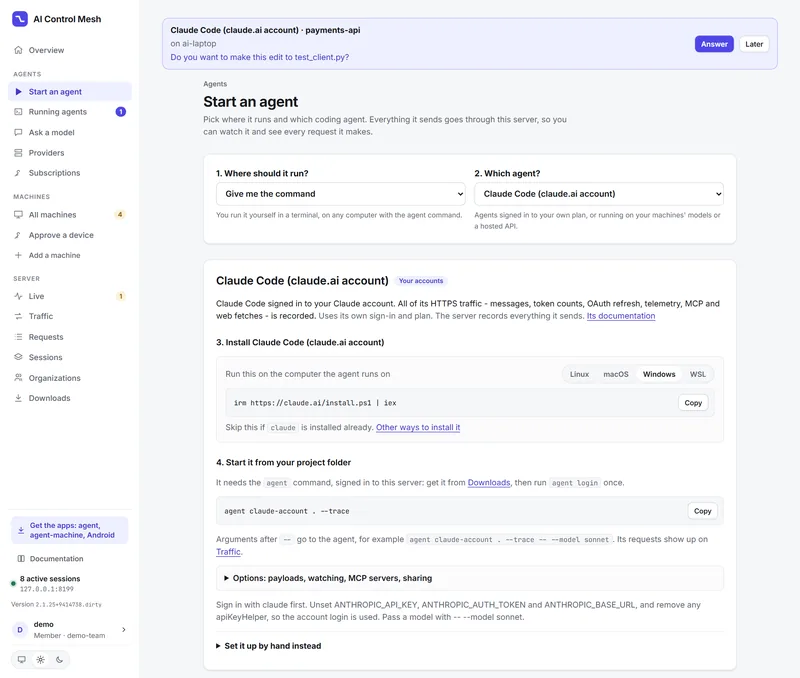
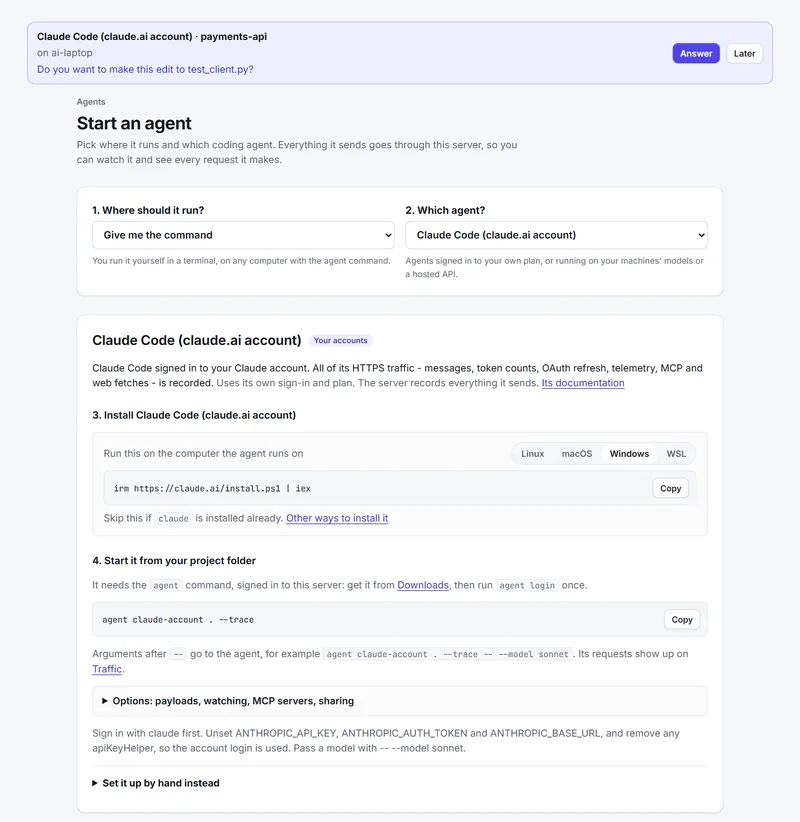
Site: several agents on different machines in the hero, a running session, notifications, captures without the sidebar

diff --git a/site/index.html b/site/index.html
@@ -11,7 +11,7 @@
   <meta property="og:site_name" content="AIControlMesh">
   <meta property="og:url" content="https://aicontrolmesh.com/">
   <meta property="og:title" content="Your AI agents. Your infrastructure. One control plane.">
-  <meta property="og:description" content="Route models, share MCP tools, manage your fleet, and follow agent sessions. Open source and self-hosted.">
+  <meta property="og:description" content="Run several coding agents at once on different machines, watch them live and answer them from anywhere. Open source and self-hosted.">
   <meta property="og:image" content="https://aicontrolmesh.com/assets/social.png">
   <meta property="og:image:width" content="1200">
   <meta property="og:image:height" content="630">
@@ -25,7 +25,7 @@
   <link rel="icon" href="/assets/icon-192.png" type="image/png" sizes="192x192">
   <link rel="apple-touch-icon" href="/assets/apple-touch-icon.png" sizes="180x180">
   <link rel="manifest" href="/site.webmanifest">
-  <link rel="stylesheet" href="/styles.css?v=mesh-2026-11-04">
+  <link rel="stylesheet" href="/styles.css?v=mesh-2026-11-04b">
   <script src="/site.js?v=mesh-2026-11-01" defer></script>
   <script type="application/ld+json">
   {
@@ -61,20 +61,21 @@
       <div class="hero-copy">
         <p class="eyebrow"><span class="status-dot" aria-hidden="true"></span> Open source · MIT licensed · Self-hosted</p>
         <h1 id="hero-title">Your AI agents.<br>Your infrastructure.<br><span>One control plane.</span></h1>
-        <p class="hero-lede">Run and observe coding agents across your machines, connect them to local models or supported cloud services, and share MCP tools with access controls for your team.</p>
+        <p class="hero-lede">Run several coding agents at once, on different machines. Watch each one live, connect it to local models or your own accounts, and answer it from any device when it needs you.</p>
+        <ul class="agent-chips" aria-label="Agents it runs"><li>Claude Code</li><li>Codex</li><li>Copilot CLI</li><li>OpenCode</li><li>Qwen Code</li><li>Aider</li><li>Goose</li></ul>
         <p class="hero-audience">For individual developers and engineering teams running agents on infrastructure they control.</p>
         <div class="actions">
           <a class="button button-primary" href="#quickstart">Try locally <span aria-hidden="true">→</span></a>
           <a class="button button-outline" href="/teams.html">Explore team deployment <span aria-hidden="true">→</span></a>
         </div>
-        <p class="hero-note">Launch a task · choose its provider · inspect the session</p>
+        <p class="hero-note">Start agents anywhere · watch them live · hear when they need you</p>
       </div>
       <figure class="hero-product">
-        <div class="window-bar"><span aria-hidden="true"><i></i><i></i><i></i></span><span>Overview / Live routing</span><span class="demo-label">DEMO DATA</span></div>
-        <a class="hero-capture" href="/screenshots/overview-dark.png" aria-label="Open the full overview screenshot with demo data">
-          <img src="/assets/screens/overview-dark-1440.webp" srcset="/assets/screens/overview-dark-800.webp 800w, /assets/screens/overview-dark-1440.webp 1440w" sizes="(max-width: 850px) calc(100vw - 40px), 46vw" width="1440" height="989" fetchpriority="high" decoding="async" alt="The console's overview: agents streaming through the server to the machines and accounts that answer them.">
+        <div class="window-bar"><span aria-hidden="true"><i></i><i></i><i></i></span><span>Running agents / 5 agents · 3 machines</span><span class="demo-label">DEMO DATA</span></div>
+        <a class="hero-capture" href="/screenshots/terminals-dark.png" aria-label="Open the full Running agents screenshot with demo data">
+          <img src="/assets/screens/terminals-dark-1440.webp" srcset="/assets/screens/terminals-dark-800.webp 800w, /assets/screens/terminals-dark-1440.webp 1440w" sizes="(max-width: 850px) calc(100vw - 40px), 46vw" width="1440" height="1025" fetchpriority="high" decoding="async" alt="Running agents: GitHub Copilot CLI and Codex working on build-box, OpenCode on ai-desktop, Qwen Code waiting and Claude Code asking a question on ai-laptop, with a banner to answer it.">
         </a>
-        <figcaption><span>Every agent, the server, and the machine that answers, live.<br>Actual console; synthetic demo data.</span><a href="/screenshots/overview-dark.png">Open full image ↗</a></figcaption>
+        <figcaption><span>Five different agents on three machines. One needs you.<br>Actual console; synthetic demo data.</span><a href="/screenshots/terminals-dark.png">Open full image ↗</a></figcaption>
       </figure>
     </section>
     <div class="compatibility wrap" aria-label="Explore the product">
@@ -110,15 +111,16 @@ docker compose -f quickstart/compose.yaml up -d</code></pre>
     <section class="product-section section" id="product" aria-labelledby="product-title">
       <div class="wrap">
         <div class="section-heading split-heading">
-          <div><p class="eyebrow">02 / Inside the console</p><h2 id="product-title">See the work.<br>Reach the machine.</h2></div>
+          <div><p class="eyebrow">02 / Inside the console</p><h2 id="product-title">See every agent.<br>Answer from anywhere.</h2></div>
           <p>Actual captures from the repository’s isolated demo. Names, prompts, tools and metrics are sample data. Open any image for the full-size capture.</p>
         </div>
         <div class="shots">
-          <figure class="shot"><a class="shot-frame" href="/screenshots/agents.png" aria-label="Open the full screenshot: Start an agent in two choices"><img src="/assets/screens/agents-1440.webp" srcset="/assets/screens/agents-800.webp 800w, /assets/screens/agents-1440.webp 1440w" sizes="(max-width: 850px) calc(100vw - 40px), 58vw" width="1440" height="1220" loading="lazy" decoding="async" alt="Start an agent: where it runs, which agent, and the command to install and start it."></a><figcaption><span class="figure-number">01</span><h3>Start an agent in two choices</h3><p>Pick where it runs, one of your machines or a command for any computer, then which agent. The page shows only what that needs.</p><ul><li>On a machine: start it there from the console.</li><li>Not installed yet: the install command for that system.</li><li>By hand: one command to run in your project folder.</li></ul><a class="open-full" href="/screenshots/agents.png">Open the full capture ↗</a></figcaption></figure>
-          <figure class="shot"><a class="shot-frame" href="/screenshots/terminal.png" aria-label="Open the full screenshot: Watch it work. Answer from anywhere"><img src="/assets/screens/terminal-1440.webp" srcset="/assets/screens/terminal-800.webp 800w, /assets/screens/terminal-1440.webp 1440w" sizes="(max-width: 850px) calc(100vw - 40px), 58vw" width="1440" height="900" loading="lazy" decoding="async" alt="An agent's terminal in the console, with keys for a phone and a prompt banner to answer."></a><figcaption><span class="figure-number">02</span><h3>Watch it work. Answer from anywhere</h3><p>Agents started with a shared terminal show up live in the console. Type into them, or answer their questions from the banner, from a computer or your phone.</p><ul><li>Scrollback is kept, so finished sessions stay readable.</li><li>Private until you share it with your team or organization.</li></ul><a class="open-full" href="/screenshots/terminal.png">Open the full capture ↗</a></figcaption></figure>
-          <figure class="shot"><a class="shot-frame" href="/screenshots/session-chat.png" aria-label="Open the full screenshot: Every request. Every token"><img src="/assets/screens/session-chat-1440.webp" srcset="/assets/screens/session-chat-800.webp 800w, /assets/screens/session-chat-1440.webp 1440w" sizes="(max-width: 850px) calc(100vw - 40px), 58vw" width="1440" height="1000" loading="lazy" decoding="async" alt="A recorded session: requests, token totals, the main conversation and sub-agent calls."></a><figcaption><span class="figure-number">03</span><h3>Every request. Every token</h3><p>Each session records its requests, tokens, prompt-cache use and timings. With capture on, read the whole conversation, sub-agents and tool calls included.</p><ul><li>Credentials are redacted before anything is shown or saved.</li><li>Organization policy decides whether bodies are kept.</li></ul><a class="open-full" href="/screenshots/session-chat.png">Open the full capture ↗</a></figcaption></figure>
-          <figure class="shot"><a class="shot-frame" href="/screenshots/machines.png" aria-label="Open the full screenshot: Your machines, their models"><img src="/assets/screens/machines-1440.webp" srcset="/assets/screens/machines-800.webp 800w, /assets/screens/machines-1440.webp 1440w" sizes="(max-width: 850px) calc(100vw - 40px), 58vw" width="1440" height="1016" loading="lazy" decoding="async" alt="The fleet: connected machines, their model servers and the functions each permits."></a><figcaption><span class="figure-number">04</span><h3>Your machines, their models</h3><p>Each machine runs agent-machine and reports its model servers: Ollama, llama.cpp, Strata and Docker Model Runner. Start, stop and pull models from the console.</p><ul><li>Every switch is off until the machine's owner turns it on.</li><li>Machines open the connection outward; no ports to publish.</li></ul><a class="open-full" href="/screenshots/machines.png">Open the full capture ↗</a></figcaption></figure>
-          <figure class="shot"><a class="shot-frame" href="/screenshots/machine-mcp.png" aria-label="Open the full screenshot: Share MCP tools with controlled access"><img src="/assets/screens/machine-mcp-1440.webp" srcset="/assets/screens/machine-mcp-800.webp 800w, /assets/screens/machine-mcp-1440.webp 1440w" sizes="(max-width: 850px) calc(100vw - 40px), 58vw" width="1440" height="1225" loading="lazy" decoding="async" alt="A machine sharing GitHub, PostgreSQL and documentation MCP servers with agents."></a><figcaption><span class="figure-number">05</span><h3>Share MCP tools with controlled access</h3><p>Register MCP servers once on a machine and hand them to agents per session. Their commands, environments and keys never leave that machine.</p><ul><li>The owner grants them to teams or organizations; taking a grant away stops agents already using them.</li><li>Agents reach them through the server with a per-session key.</li></ul><a class="open-full" href="/screenshots/machine-mcp.png">Open the full capture ↗</a></figcaption></figure>
+          <figure class="shot"><a class="shot-frame" href="/screenshots/live-dark.png" aria-label="Open the full screenshot: Watch a running session"><img src="/assets/screens/live-dark-1440.webp" srcset="/assets/screens/live-dark-800.webp 800w, /assets/screens/live-dark-1440.webp 1440w" sizes="(max-width: 850px) calc(100vw - 40px), 58vw" width="1440" height="1036" loading="lazy" decoding="async" alt="Live: a Qwen Code request streaming from Ollama on ai-laptop, with its reasoning arriving, timings, speed and context."></a><figcaption><span class="figure-number">01</span><h3>Watch a running session</h3><p>Live shows every model call while it streams: the reasoning, the reply and the tool calls as they arrive, with time to first token, speed and the context it was sent.</p><ul><li>Local models, the Anthropic API and your own Claude, Codex and Copilot plans alike.</li><li>Open the agent’s terminal from the session to read it and type into it.</li></ul><a class="open-full" href="/screenshots/live-dark.png">Open the full capture ↗</a></figcaption></figure>
+          <figure class="shot shot-phone"><a class="shot-frame" href="/screenshots/terminal-phone.png" aria-label="Open the full screenshot: Know when an agent needs you"><img src="/assets/screens/terminal-phone-618.webp" srcset="/assets/screens/terminal-phone-400.webp 400w, /assets/screens/terminal-phone-618.webp 618w" sizes="(max-width: 850px) 70vw, 320px" width="618" height="1290" loading="lazy" decoding="async" alt="The console on a phone: a banner says Claude Code on ai-laptop asks whether to make an edit, above Qwen Code's terminal, which is waiting."></a><figcaption><span class="figure-number">02</span><h3>Know when an agent needs you</h3><p>When an agent asks something, like permission for an edit, a banner shows on every page until you answer it. An agent that finishes and waits gets a notice too.</p><ul><li>Turn on system notifications to hear about it from another tab or app.</li><li>The page title counts the agents waiting for you.</li><li>Answer from your phone, in the browser or the Android app.</li></ul><a class="open-full" href="/screenshots/terminal-phone.png">Open the full capture ↗</a></figcaption></figure>
+          <figure class="shot"><a class="shot-frame" href="/screenshots/agents.png" aria-label="Open the full screenshot: Start an agent in two choices"><img src="/assets/screens/agents-1440.webp" srcset="/assets/screens/agents-800.webp 800w, /assets/screens/agents-1440.webp 1440w" sizes="(max-width: 850px) calc(100vw - 40px), 58vw" width="1440" height="1479" loading="lazy" decoding="async" alt="Start an agent: where it runs, which agent, and the command to install and start it."></a><figcaption><span class="figure-number">03</span><h3>Start an agent in two choices</h3><p>Pick where it runs, one of your machines or a command for any computer, then which agent. The page shows only what that needs.</p><ul><li>On a machine: start it there from the console.</li><li>Not installed yet: the install command for that system.</li><li>By hand: one command to run in your project folder.</li></ul><a class="open-full" href="/screenshots/agents.png">Open the full capture ↗</a></figcaption></figure>
+          <figure class="shot"><a class="shot-frame" href="/screenshots/session-chat.png" aria-label="Open the full screenshot: Every request. Every token"><img src="/assets/screens/session-chat-1440.webp" srcset="/assets/screens/session-chat-800.webp 800w, /assets/screens/session-chat-1440.webp 1440w" sizes="(max-width: 850px) calc(100vw - 40px), 58vw" width="1440" height="1212" loading="lazy" decoding="async" alt="A recorded session: requests, token totals, the main conversation and sub-agent calls."></a><figcaption><span class="figure-number">04</span><h3>Every request. Every token</h3><p>Each session records its requests, tokens, prompt-cache use and timings. With capture on, read the whole conversation, sub-agents and tool calls included.</p><ul><li>Credentials are redacted before anything is shown or saved.</li><li>Organization policy decides whether bodies are kept.</li></ul><a class="open-full" href="/screenshots/session-chat.png">Open the full capture ↗</a></figcaption></figure>
+          <figure class="shot"><a class="shot-frame" href="/screenshots/machines.png" aria-label="Open the full screenshot: Your machines, their models"><img src="/assets/screens/machines-1440.webp" srcset="/assets/screens/machines-800.webp 800w, /assets/screens/machines-1440.webp 1440w" sizes="(max-width: 850px) calc(100vw - 40px), 58vw" width="1440" height="1232" loading="lazy" decoding="async" alt="The fleet: connected machines, their model servers and the functions each permits."></a><figcaption><span class="figure-number">05</span><h3>Your machines, their models</h3><p>Each machine runs agent-machine and reports its model servers: Ollama, llama.cpp, Strata and Docker Model Runner. Start, stop and pull models from the console.</p><ul><li>Every switch is off until the machine’s owner turns it on.</li><li>Machines open the connection outward; no ports to publish.</li></ul><a class="open-full" href="/screenshots/machines.png">Open the full capture ↗</a></figcaption></figure>
+          <figure class="shot"><a class="shot-frame" href="/screenshots/machine-mcp.png" aria-label="Open the full screenshot: Share MCP tools with controlled access"><img src="/assets/screens/machine-mcp-1440.webp" srcset="/assets/screens/machine-mcp-800.webp 800w, /assets/screens/machine-mcp-1440.webp 1440w" sizes="(max-width: 850px) calc(100vw - 40px), 58vw" width="1440" height="1485" loading="lazy" decoding="async" alt="A machine sharing GitHub, PostgreSQL and documentation MCP servers with agents."></a><figcaption><span class="figure-number">06</span><h3>Share MCP tools with controlled access</h3><p>Register MCP servers once on a machine and hand them to agents per session. Their commands, environments and keys never leave that machine.</p><ul><li>The owner grants them to teams or organizations; taking a grant away stops agents already using them.</li><li>Agents reach them through the server with a per-session key.</li></ul><a class="open-full" href="/screenshots/machine-mcp.png">Open the full capture ↗</a></figcaption></figure>
         </div>
       </div>
     </section>

diff --git a/site/styles.css b/site/styles.css
@@ -58,6 +58,9 @@ h1 { font-size: clamp(40px, 4.35vw, 64px); line-height: 1.08; }
 h1 span { color: var(--mint); }
 .hero-lede { font-size: 19px; line-height: 1.65; margin-top: 25px; max-width: 540px; }
 .hero-audience { font-size: 14px; margin-top: 15px; max-width: 440px; }
+/* The agents it runs, as a row of tags: names only, no vendor marks. */
+.agent-chips { list-style: none; display: flex; flex-wrap: wrap; gap: 6px; margin: 20px 0 0; padding: 0; max-width: 600px; }
+.agent-chips li { padding: 4px 10px; border: 1px solid #4a566d; border-radius: 999px; background: #171e2d; font: 12px/1.4 var(--mono); color: var(--text); }
 .actions { display: flex; flex-wrap: wrap; gap: 12px; margin-top: 30px; }
 .hero-note { font-size: 12px; margin-top: 20px; }
 .hero-note span { color: var(--lavender); padding-inline: 7px; }
@@ -108,6 +111,9 @@ pre code { font-size: inherit; }
 .shot-frame:hover { transform: translateY(-3px); border-color: var(--mint); }
 .shot-frame:focus-visible { outline: 2px solid var(--mint); outline-offset: 4px; }
 .shot figcaption { min-width: 0; }
+/* The phone capture stands at a phone's size, not stretched to the column. */
+.shot-phone .shot-frame { width: min(320px, 100%); justify-self: center; border-radius: 22px; border-width: 6px; border-color: #2a3346; background: #0d0f14; }
+.shot-phone .shot-frame:hover { border-color: var(--mint); }
 .figure-number { display: block; font: 12px var(--mono); color: var(--mint); letter-spacing: .06em; margin-bottom: 14px; }
 .shot h3 { font-size: 24px; line-height: 1.25; margin-bottom: 14px; }
 .shot p { font-size: 15px; }
@@ -309,6 +315,7 @@ th small { display: block; font-weight: 400; color: var(--muted); }
   .hero h1 { font-size: clamp(36px, 6.3vw, 58px); }
   .shots { gap: 56px; }
   .shot, .shot:nth-child(even) { grid-template-columns: 1fr; gap: 22px; }
+  .shot-phone .shot-frame { width: min(300px, 80%); }
   .shot:nth-child(even) .shot-frame { order: 0; }
   .detail-grid, .route-grid { grid-template-columns: 1fr; }
   .site-header.is-enhanced nav.is-open { max-height: 65vh; overflow: auto; }

diff --git a/scripts/screenshots/site-images.py b/scripts/screenshots/site-images.py
@@ -2,7 +2,7 @@
 
 The captures in docs/screenshots are 2160 pixels wide (twice the 1080-pixel window they're taken
 in), several hundred KB each as PNG. The site shows them at most about 1200 CSS pixels wide, so it
-gets WebP copies at 800 and 1440 pixels (srcset picks one), with the full PNG behind a link.
+gets WebP copies at 800 and 1440 pixels (400 and 618 for the phone; srcset picks one), with the full PNG behind a link.
 Run it after capture.mjs changes one of the captures below:
 
     python scripts/screenshots/site-images.py
@@ -26,13 +26,25 @@ class Shot:
     # The share of the capture's height to keep from the top (1 = all of it): the dark overview is a
     # long page, and the site shows its first screen.
     keep: float = 1.0
+    # A part of the capture, as shares of its width and height (left, top, right, bottom): the hero
+    # leaves the console's sidebar out, so its cards read larger.
+    box: tuple[float, float, float, float] = (0.0, 0.0, 1.0, 1.0)
+    # The phone capture is narrow: it gets smaller copies, never wider than itself.
+    widths: tuple[int, ...] = WIDTHS
 
+
+# The console's sidebar is the first 17.5% of a desktop capture: the site leaves it out, so what
+# each capture is about reads larger.
+NO_SIDEBAR = (0.175, 0.0, 1.0, 1.0)
 
 SHOTS = (
-    Shot("session-chat"),
-    Shot("agents"),
-    Shot("machines"),
-    Shot("machine-mcp"),
+    Shot("terminals-dark", box=(0.18, 0.0, 1.0, 0.84)),
+    Shot("live-dark", box=(0.175, 0.0, 1.0, 0.95)),
+    Shot("terminal-phone", widths=(400, 618)),
+    Shot("session-chat", box=NO_SIDEBAR),
+    Shot("agents", box=NO_SIDEBAR),
+    Shot("machines", box=NO_SIDEBAR),
+    Shot("machine-mcp", box=NO_SIDEBAR),
     Shot("terminal"),
     Shot("overview-dark", keep=0.35),
 )
@@ -45,7 +57,10 @@ def main() -> None:
             image = image.convert("RGB")
             if shot.keep < 1:
                 image = image.crop((0, 0, image.width, round(image.height * shot.keep)))
-            for width in WIDTHS:
+            left, top, right, bottom = shot.box
+            if shot.box != (0.0, 0.0, 1.0, 1.0):
+                image = image.crop((round(image.width * left), round(image.height * top), round(image.width * right), round(image.height * bottom)))
+            for width in shot.widths:
                 height = round(image.height * width / image.width)
                 out = TARGET / f"{shot.name}-{width}.webp"
                 image.resize((width, height), Image.LANCZOS).save(out, "WEBP", quality=82, method=6)

diff --git a/.context/build-and-deploy.md b/.context/build-and-deploy.md
@@ -47,7 +47,7 @@ flowchart LR
 - `server/docker/postgres-init.sh` runs once, on an empty data directory: roles `mesh_api` and `mesh_auth` with their passwords, schemas `mesh` and `mesh_auth` owned by them, and `public` and the database closed to `PUBLIC`. agent-server grants `mesh_auth` read access to `users`, `orgs` and `meta` itself when it migrates (`migrate.grant_issuer`). `.gitattributes` keeps the script LF, since the container runs it as it is. Backups: `docker compose exec -T postgres pg_dump -U postgres -Fc mesh > mesh.dump` (as `compose.yaml`'s header says).
 - Upgrading Compose from before the database: the old volumes stay mounted (`agent-server-config` and `agent-auth-state` read-only, `agent-server-logs`, `agent-server-certs`), so the first start against the empty PostgreSQL imports their files (settings, accounts, keys, the CA, machines, sessions; the issuer's grants and signing key), after which only `logs/proxy/` and `first-user-password` are used. Nothing in them is deleted. Split deployments build the console with `VITE_API_URL`, run the API with `AI_PROXY_SERVE_UI=0` and trust the console through `AI_PROXY_CONSOLE_ORIGINS`.
 - `site/`: static public brochure site (`index.html`, `teams.html`, `security.html`, `styles.css`), served by its own small nginx image (`site/Dockerfile`, `site/nginx.conf`, with a `/health`). The apex and `www` hostnames serve this site; `console.<domain>` serves only the static console (`ui/Dockerfile`, `ui/nginx.conf`); `api.<domain>` routes console, agent and machine requests to `agent-server` and redirects its root to the console.
-- The brochure leads to the local quickstart and a separate team evaluation path. The homepage shows isolated-demo captures from `docs/screenshots/` as web-sized WebP copies in `site/assets/screens/` (800 and 1440 pixels wide, picked by `srcset`; `scripts/screenshots/site-images.py` makes them, so rerun it when `capture.mjs` changes `overview-dark`, `agents`, `machines`, `session-chat`, `machine-mcp` or `terminal`), whole and uncropped, each linking to its full PNG under `/screenshots/`. The hero is the dark overview's first screen; the console section is one feature a row, and "Where it runs" lists the ways to add a machine. `teams.html` covers deployment and operational requirements; `security.html` covers controls and data boundaries. Compatibility is a native HTML disclosure. `docs/website.md` records implementation/test evidence and the minimum version for governance/cluster features; Helm image defaults must be checked separately. The existing console link is secondary and requires an account for that deployment. The architecture is semantic HTML/CSS and stacks vertically on small screens. `site.js` progressively enhances the mobile menu and copy button; content and navigation remain usable without it. No application API calls or third-party assets are used.
+- The brochure leads to the local quickstart and a separate team evaluation path. The homepage shows isolated-demo captures from `docs/screenshots/` as web-sized WebP copies in `site/assets/screens/` (800 and 1440 pixels wide, 400 and 618 for the phone capture, picked by `srcset`; `scripts/screenshots/site-images.py` makes them, leaving the console's sidebar out of desktop captures, so rerun it when `capture.mjs` changes one of its `SHOTS`), each linking to its full PNG under `/screenshots/`. The hero is `terminals-dark` (the demo's five agents on three machines, one asking a question) under a lede on running several agents on different machines and a row of agent names; the console section is one feature a row: a running session (`live-dark`), notifications (`terminal-phone`, in a phone-sized frame), Start an agent, a session, machines and MCP; "Where it runs" lists the ways to add a machine. `terminals-dark` and `live-dark` are dark captures made for the site. `teams.html` covers deployment and operational requirements; `security.html` covers controls and data boundaries. Compatibility is a native HTML disclosure. `docs/website.md` records implementation/test evidence and the minimum version for governance/cluster features; Helm image defaults must be checked separately. The existing console link is secondary and requires an account for that deployment. The architecture is semantic HTML/CSS and stacks vertically on small screens. `site.js` progressively enhances the mobile menu and copy button; content and navigation remain usable without it. No application API calls or third-party assets are used.
 - `site/assets/` contains editable SVG branding and browser-rendered PNG social/app icons. `robots.txt`, `sitemap.xml`, `site.webmanifest` and homepage metadata use the apex hostname. The Dockerfile explicitly copies the public assets and selected screenshots. `scripts/site/preview.mjs` serves the same allowlist on loopback; `check.mjs` checks all three pages at 375/768/1440 px, cross-page navigation, quickstart inputs, interactions and assets, and optionally renders branding exports with `--render-assets`. Browser captures go to gitignored `.test-site/`. See `docs/website.md` for commands and claim evidence.
 - Bump the brochure stylesheet URL's `v` query in all three public HTML pages when changing `site/styles.css`: public CDNs may keep the previous CSS after a deployment.
 - `sandbox/`: an image with `agent`, `agent-machine` and the npm coding agents. Its entrypoint signs both in through device approval (or a setup code), retrying a failed sign-in after a wait that doubles to 15 minutes rather than exiting (a restart policy would otherwise loop it, asking for codes), sets launches on for `/workspace` only (containers always off; servers on unless `AGENT_SERVERS=off`), and runs `agent-machine run`. agent-machine only probes its own loopback, so `AGENT_OLLAMA`/`AGENT_LLAMACPP` (`host[:port]`) make the entrypoint run `socat` relays from `127.0.0.1:11434` and `127.0.0.1:9931` to model server containers next to it; tunnels then reach them like local ones. The image copies Ollama (`OLLAMA_VERSION`, pinned) from the `ollama/ollama` image with only its CPU backends (the top-level files of `lib/ollama`; every GPU backend is a subfolder, dropped), into `/usr/local/bin` and `/usr/local/lib/ollama`, where `ollama` looks beside itself; servers on starts it from PATH. A relayed `AGENT_OLLAMA` holds 11434, so the entrypoint warns that the console manages that one instead. For OpenShift's restricted policy (a random user in group 0), `/home/agent` and `/workspace` are `chgrp 0`/`g=u` and `/etc/passwd` is group-writable; the entrypoint adds a passwd line for a nameless user, falls back to `HOME=/tmp/agent-home` when the home isn't writable, and maps `AGENT_DATA_DIR` to agent-machine's `AI_PROXY_MACHINE_DATA`. The image carries `libgomp1` because llama.cpp's GitHub Linux builds (what the console installs with servers on) need it and node's slim base lacks it.
